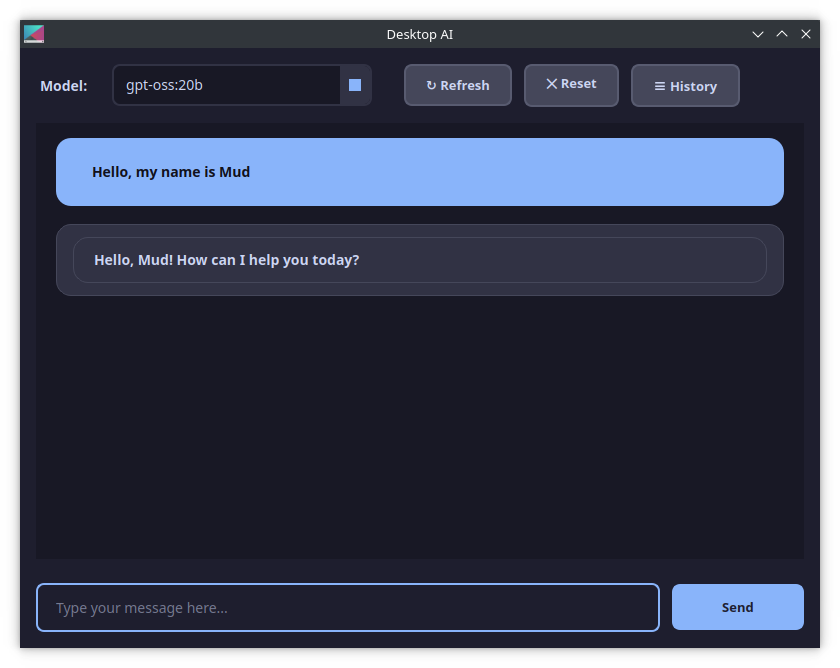
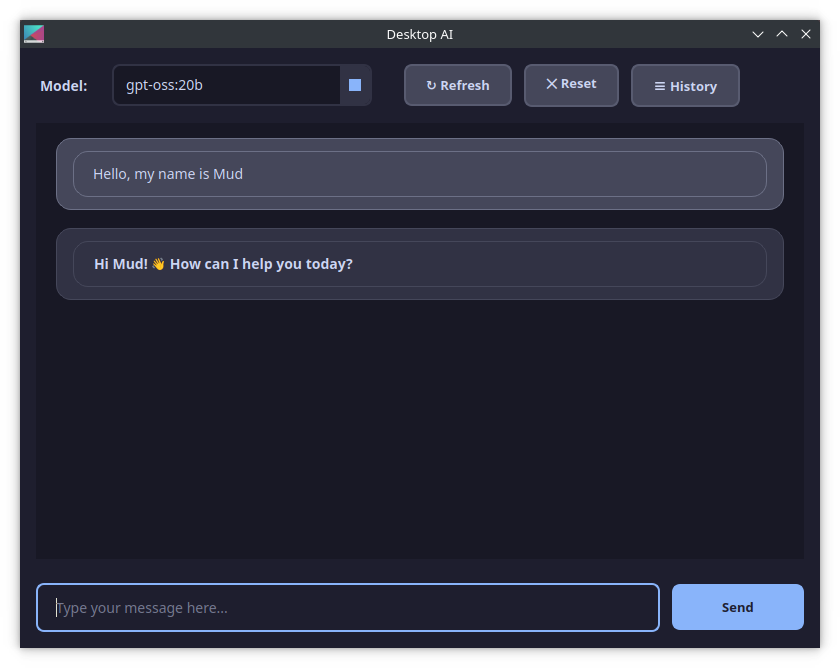
Improves chat bubble appearance and markdown support
Enhances user message bubbles with refined colors, border, and font
weight for better readability. Enables HTML rendering and processes
markdown for user messages to improve formatting consistency and
visual appeal.

Changed region(s): [[0.0619, 0.2096, 0.9595, 0.4491]]

diff --git a/desktop_ai/ui/widgets/chat_widget.py b/desktop_ai/ui/widgets/chat_widget.py
@@ -73,24 +73,32 @@ class MessageBubble(QFrame):
             bubble_frame = QFrame()
             bubble_frame.setStyleSheet("""
                 QFrame {
-                    background-color: #89b4fa;
-                    color: #11111b;
+                    background-color: #45475a;
+                    color: #cdd6f4;
                     border-radius: 15px;
+                    border: 1px solid #6c7086;
                     padding: 12px 16px;
                 }
             """)
             
             # Create the message label
-            message_label = QLabel(text)
+            message_label = QLabel()
             message_label.setWordWrap(True)
             message_label.setTextInteractionFlags(Qt.TextInteractionFlag.TextSelectableByMouse)
-            message_label.setStyleSheet("background: transparent; color: #11111b; font-weight: 600; font-size: 14px;")
+            message_label.setStyleSheet("background: transparent; color: #cdd6f4; font-weight: 500; font-size: 14px;")
             message_label.setAlignment(Qt.AlignmentFlag.AlignLeft)
+            
+            # Enable HTML rendering for markdown
+            message_label.setTextFormat(Qt.TextFormat.RichText)
             
             # Set font
             font = QFont("Segoe UI", 10)
-            font.setWeight(QFont.Weight.Medium)
+            font.setWeight(QFont.Weight.Normal)
             message_label.setFont(font)
+            
+            # Process markdown for user messages using the styler
+            processed_text = MarkdownStyler.process_markdown(text)
+            message_label.setText(processed_text)
             
             # Simple layout for the bubble
             bubble_layout = QVBoxLayout(bubble_frame)
